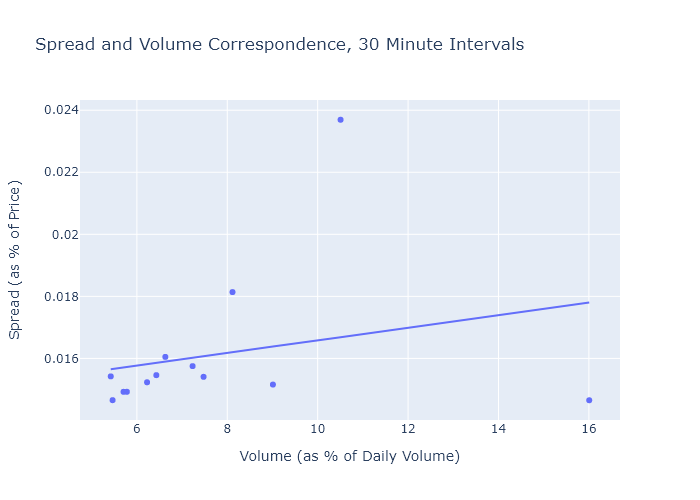
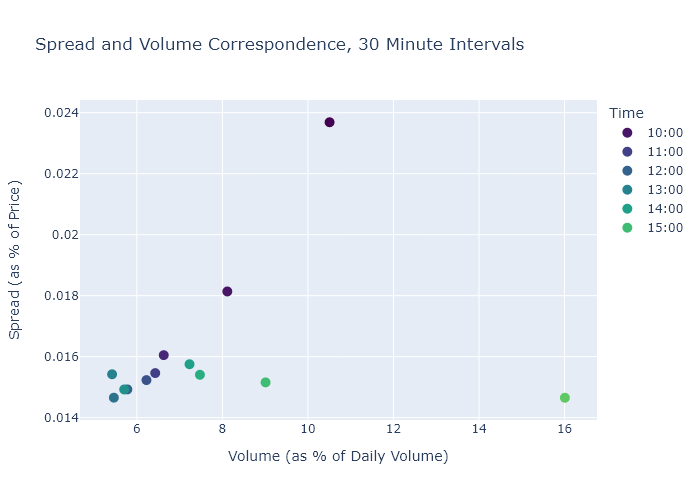
finished code for plots

diff --git a/ive_test_data.py b/ive_test_data.py
@@ -3,14 +3,21 @@
 # ETF: IVE: S&P 500 Value ETF
 
 import pandas as pd
+import numpy as np
 import matplotlib.pyplot as plt
 import plotly.express as px
 import plotly.graph_objects as go
 from plotly.subplots import make_subplots
+import matplotlib.colors as colors
 
 # read in the data
 df = pd.read_csv('IVE_tickbidask.csv', sep=',', header=None)
 df.columns = ['Date', 'Time', 'Price', 'Bid', 'Ask', 'Volume']
+
+print('OG data')
+print(df.head())
+
+print('num trading days:', len(pd.unique(df['Date'])))
 
 # CLEAN DATA ############################################################
 # convert date and time columns to datetime format
@@ -25,22 +32,23 @@ df['Month'] = pd.DatetimeIndex(df['Date']).month
 # remove rows with missing data and 0's for the prices
 starting_rows = df.shape[0]
 print('before cleaning junk rows: {} rows'.format(starting_rows))
-df = df.dropna()
 df = df[df['Bid'] > 0]
 
 # remove rows with time before 9:30am and after 4:00pm
 df = df[df['Time'] >= pd.to_datetime('09:30:00', format='%H:%M:%S')]
 df = df[df['Time'] < pd.to_datetime('16:00:00', format='%H:%M:%S')] # < not <= because the interval bins would only have 1 type of entry for the bin starting at 4:00
 
-
-
 # CALCULATED FIELDS #####################################################
 # insert column for average prices
-df['Avg_price'] = (df['Bid'] + df['Ask']) / 2
+# df['Avg_price'] = (df['Bid'] + df['Ask']) / 2
 
 # insert columns for spread
 df['Spread'] = df['Ask'] - df['Bid']
-df['Spread_as_Pct'] = df['Spread'] / df['Avg_price'] * 100 # in percent
+df['Spread_as_Pct'] = df['Spread'] / df['Price'] * 100 # in percent
+
+# insert column for change in price
+# df['Price_change'] = df['Price'].diff()
+df = df.dropna()
 
 # find the max spread in the dataset
 max_spread = df['Spread_as_Pct'].max()
@@ -51,63 +59,128 @@ df = df[df['Spread_as_Pct'] < 2]
 ending_rows = df.shape[0]
 print('after cleaning rows based on market hours and spread outliers: {} rows'.format(ending_rows))
 print('removed {} rows'.format(starting_rows - ending_rows))
+print('now there is trading days of:', len(pd.unique(df['Date'])))
 
 # SMALLER DATAFRAME #####################################################
 # create smaller dataframe with only the columns we need
-df_small = df.drop(['Date', 'Price'], inplace=False, axis=1)
+df_small = df.drop(['Date'], inplace=False, axis=1)
 
 # reorder columns
-cols_order = ['Year', 'Month', 'Time', 'Time_pretty', 'Bid', 'Ask', 'Avg_price', 'Spread', 'Spread_as_Pct', 'Volume']
+cols_order = ['Year', 'Month', 'Time', 'Time_pretty', 'Bid', 'Ask', 'Price', 'Spread', 'Spread_as_Pct', 'Volume']
 df_small = df_small[cols_order]
 
 print('df_small')
 print(df_small.head())
 
+# function that returns a dataframe of volatilities for a given year/month
+def get_volatility_df(factor):
+    """
+    factor: 'Year' or 'Month'
+    """
+    periods = 252 if factor == 'Year' else 21 # 252 trading days in a year, 21 trading days in a month
+
+    print('df')
+    print(df.head())
+    
+    # get daily prices (open)
+    df_daily_prices = df.groupby(['Date'])['Price', 'Year', 'Month'].first().reset_index()
+    df_daily_prices.rename(columns={'Price': 'Open_price'}, inplace=True)
+
+    # create column for log returns
+    # df_daily_prices['Log_return'] = df_daily_prices['Open_price']
+
+    # create a column for log of quotient of open prices
+    df_daily_prices['Log_return'] = np.log(df_daily_prices['Open_price'] / df_daily_prices['Open_price'].shift(1))
+    df_daily_prices = df_daily_prices.dropna()
+
+    print('df_daily_prices')
+    print(df_daily_prices.head())
+
+    df_volatility = df_daily_prices.groupby([factor])['Log_return'].std().reset_index()
+    df_volatility.rename(columns={'Log_return': 'Std_dev_of_returns'}, inplace=True)
+    df_volatility['Volatility'] = df_volatility['Std_dev_of_returns'] * np.sqrt(periods) # annualize the volatility
+    
+    df_volatility.drop(['Std_dev_of_returns'], inplace=True, axis=1)
+
+    print('df_volatility')
+    print(df_volatility.head())
+
+    return df_volatility
+    
+
+
 # ANALYSIS ##############################################################
-intervals = [1, 5, 20, 30, 60]
+intervals = [1, 5, 10, 15, 20, 30, 60]
+# intervals = [20]
 for interval in intervals:
-    print('!!!!!interval: {} minutes'.format(interval))
+    print('\n!!!!!interval: {} minutes!!!!!!!!!!!!!!!!!!!!!!!!!!!!!!!!!!!!!!!\n'.format(interval))
 
     # group the time into intervals bins (floor: 9:31am -> 9:30am, for example)
     label = f'Time_{interval}'
     df_small[label] = df_small['Time'].dt.floor(f'{interval}min')
     
-    # get corresponding total volumes for this interval schema
+    # get corresponding total volumes by interval bin
     df_vol = df_small.groupby([label])['Volume'].sum().reset_index()
 
     # normalize the volume to a % of total daily volume
     df_vol['Vol_as_pct_of_daily_vol'] = df_vol['Volume'] / df_vol['Volume'].sum() * 100 # in percent
     df_vol['Time_pretty'] = df_vol[label].dt.time
 
-    # examine absolute and relative spread
-    # create a new dataframe with the average spread for each interval bin
+
+
+    # create a new dataframe with the average spread and % spread for each interval bin
     df_spread = df_small.groupby([label])['Spread', 'Spread_as_Pct'].mean().reset_index()
 
-    # merge the two dataframes to bring spread and volume together
+    # merge the 3 dataframes to bring spread, open prices, and volume together
     df_merged = pd.merge(df_spread, df_vol, on=label)
+    # df_merged = pd.merge(df_merged, df_open_price, on=label)
     df_merged.drop(['Volume', label], inplace=True, axis=1)
     
     # convert the time column to a string for graphing
     df_merged['Time_pretty'] = df_merged['Time_pretty'].astype(str)
     df_merged['Time_pretty'] = df_merged['Time_pretty'].str.slice(0, 5)
 
-    print('df_merged')
-    print(df_merged.head(20))
+    print('\ndf_merged\n')
+    print(df_merged.head())
 
     # PLOT ################################################################
+    # line graph of spread and volume on 2 y axes against time
     fig = make_subplots(specs=[[{"secondary_y": True}]])
-    fig.add_trace(go.Scatter(x=df_merged['Time_pretty'], y=df_merged['Spread_as_Pct'], name='Spread as % of Avg Price'), secondary_y=False)
-    fig.add_trace(go.Scatter(x=df_merged['Time_pretty'], y=df_merged['Vol_as_pct_of_daily_vol'], name='Volume as % of Daily Volume'), secondary_y=True)
+    fig.add_trace(go.Scatter(x=df_merged['Time_pretty'], y=df_merged['Spread_as_Pct'], name='Spread as % of Avg Price', marker_color='#636EFA'), secondary_y=False)
+    fig.add_trace(go.Scatter(x=df_merged['Time_pretty'], y=df_merged['Vol_as_pct_of_daily_vol'], name='Volume as % of Daily Volume', marker_color='#EE7674'), secondary_y=True)
     fig.update_layout(title=f'Spread and Volume in {interval} Minute Intervals Throughout Trading Hours', xaxis_title='Time', yaxis_title='Spread (as % of Price)', yaxis2_title='Volume (as % of Daily Volume)')
     fig.write_image(f'spread_plot_{interval}.png')
 
-    # make a plotly scatter plot with the spread and volume on the same graph
-    fig2 = px.scatter(df_merged, x='Vol_as_pct_of_daily_vol', y='Spread_as_Pct', title=f'Spread and Volume in {interval} Minute Intervals Throughout Trading Hours', trendline='ols')
-    fig2.update_layout(title=f'Spread and Volume Correspondence, {interval} Minute Intervals', xaxis_title='Volume (as % of Daily Volume)', yaxis_title='Spread (as % of Price)')
+    # viridis color scale
+    viridis_colorscale = ['#440154', '#481567', '#472878', '#424086', '#3B528B', '#33638D', '#2C728E', '#26828E', '#21918C', '#1FA088', '#28AE80', '#3FBC73', '#5EC962', '#84D44B', '#ADDC30', '#D8E219', '#FDE725', '#FEEB6B', '#FEEEA8', '#FFF0D1', '#FFF3E6', '#FFF7F2', '#FFFFFF']
+
+
+
+    # scatter plot with the spread and volume on x and y axes
+    fig2 = px.scatter(df_merged, x='Vol_as_pct_of_daily_vol', y='Spread_as_Pct', color='Time_pretty', title=f'Spread and Volume in {interval} Minute Intervals Throughout Trading Hours', color_discrete_sequence=viridis_colorscale, trendline='ols')
+    fig2.update_traces(marker_size=10)
+    fig2.update_layout(title=f'Spread and Volume Correspondence, {interval} Minute Intervals', xaxis_title='Volume (as % of Daily Volume)', yaxis_title='Spread (as % of Price)', legend_title_text='Time')
+
+    #TODO: FIX , dont want to show every single bin in legend, only first and last? or every hour?
+    print(fig2['data'][0]['legendgroup'])
+    print(fig2['data'][0]['showlegend'])
+    for i, entry in enumerate(fig2['data']): 
+        if fig2['data'][i]['legendgroup'][-2:] == '00':
+            fig2['data'][i]['showlegend'] = True
+        else:
+            fig2['data'][i]['showlegend'] = False
+    print(fig2['data'][0]['legendgroup'])
+    print(fig2['data'][0]['showlegend'])
+
+
     fig2.write_image(f'scatter_plot_{interval}.png')
 
     # generates a grouped bar chart based on a macro factor (e.g. year, month, etc.)
-    def macro_change(factor):
+    def macro_change(factor, interval):
+        """
+        factor: 'Year' or 'Month'
+        interval: some number of minutes to group by, e.g. 1, 5, 10, 15, 20, 30, 60
+        """
         # get corresponding total volumes for this interval schema
         df_vol_grouped_by_factor = df_small.groupby([factor, label])['Volume'].sum().reset_index()
 
@@ -128,17 +201,42 @@ for interval in intervals:
         df_merged_by_factor['Time_pretty'] = df_merged_by_factor['Time_pretty'].str.slice(0, 5)
 
         print('df_merged_by_factor')
-        print(df_merged_by_factor.head(20))
+        print(df_merged_by_factor.head())
 
-        color_scale = ['#636EFA'] * 15
-        fig3 = px.histogram(df_merged_by_factor, x=factor, y='Spread_as_Pct', color='Time_pretty', barmode='group', color_discrete_sequence=color_scale)
+        default_colorscale = ['#636EFA'] * 15
+        fig4 = make_subplots(specs=[[{"secondary_y": True}]])
 
-        fig3.update_layout(title=f'Spread in 30 Minute Intervals Throughout Trading Hours, Grouped by {factor}', xaxis_title=factor, yaxis_title='Spread (as % of Price)', xaxis={"dtick":1}, barmode='group', showlegend=False)
-        fig3.write_image(f'spread_plot_{factor}ly.png')
+        #this works but can't figure out 2nd y axis
+        fig3 = px.histogram(df_merged_by_factor, x=factor, y='Spread_as_Pct', color='Time_pretty', barmode='group', color_discrete_sequence=default_colorscale)
+        # fig3.update_layout(title=f'Average Spread in {interval} Minute Intervals Throughout Trading Hours by {factor}', xaxis_title=factor, yaxis_title='Spread (as % of Price)', xaxis={"dtick":1}, barmode='group', showlegend=False)
+        
+        # fig3.add_trace(go.Histogram(x=df_merged_by_factor[factor], y=df_merged_by_factor['Spread_as_Pct']), secondary_y=True)
+
+
+        # add traces from plotly express histogram to subplot figure
+        for trace in fig3.select_traces():
+            fig4.add_trace(trace, secondary_y = False)
+
+        # handle data for and add secondary axis
+        df_volatility = get_volatility_df(factor)
+        fig4.add_trace(go.Scatter(x=df_volatility[factor], y=(df_volatility['Volatility'] * 100), mode='lines', marker_color='#EE7674', showlegend=True), secondary_y=True) #TODO
+
+        fig4.update_layout(title=f'Average Spread in {interval} Minute Intervals Throughout Trading Hours by {factor}', xaxis_title=factor, yaxis_title='Spread (as % of Price)', yaxis2_title='Volatility (%)', xaxis={"dtick":1}, barmode='group')
+        
+        # show legend only for the second trace
+        for i, _ in enumerate(fig4['data']): 
+            fig4['data'][i]['showlegend'] = False
+        fig4['data'][-1]['showlegend'] = True
+        fig4['data'][-1]['name'] = 'Volatility (%)'
+        fig4['data'][-2]['showlegend'] = True
+        fig4['data'][-2]['name'] = 'Spread (% of Price)'
+
+        fig4.write_image(f'spread_plot_{factor}ly.png')
 
     # CHECK IF ANY MONTHLY/YEARLY CHANGE IN SPREAD ########################################
     if interval == 20:
-        macro_change('Month')
-        macro_change('Year')
+        macro_change('Month', 20)
+        macro_change('Year', 20)
 
         
+
